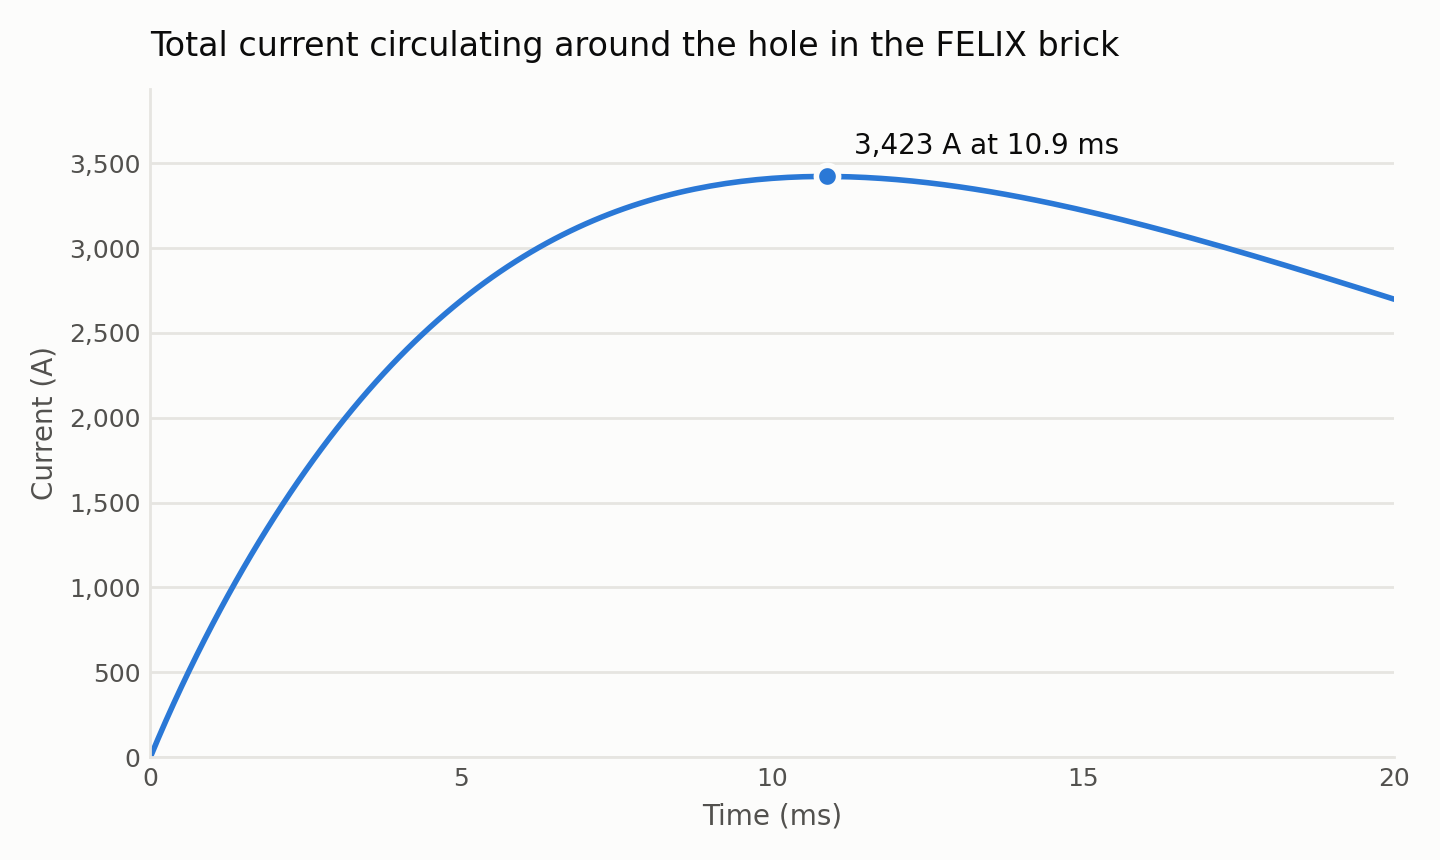
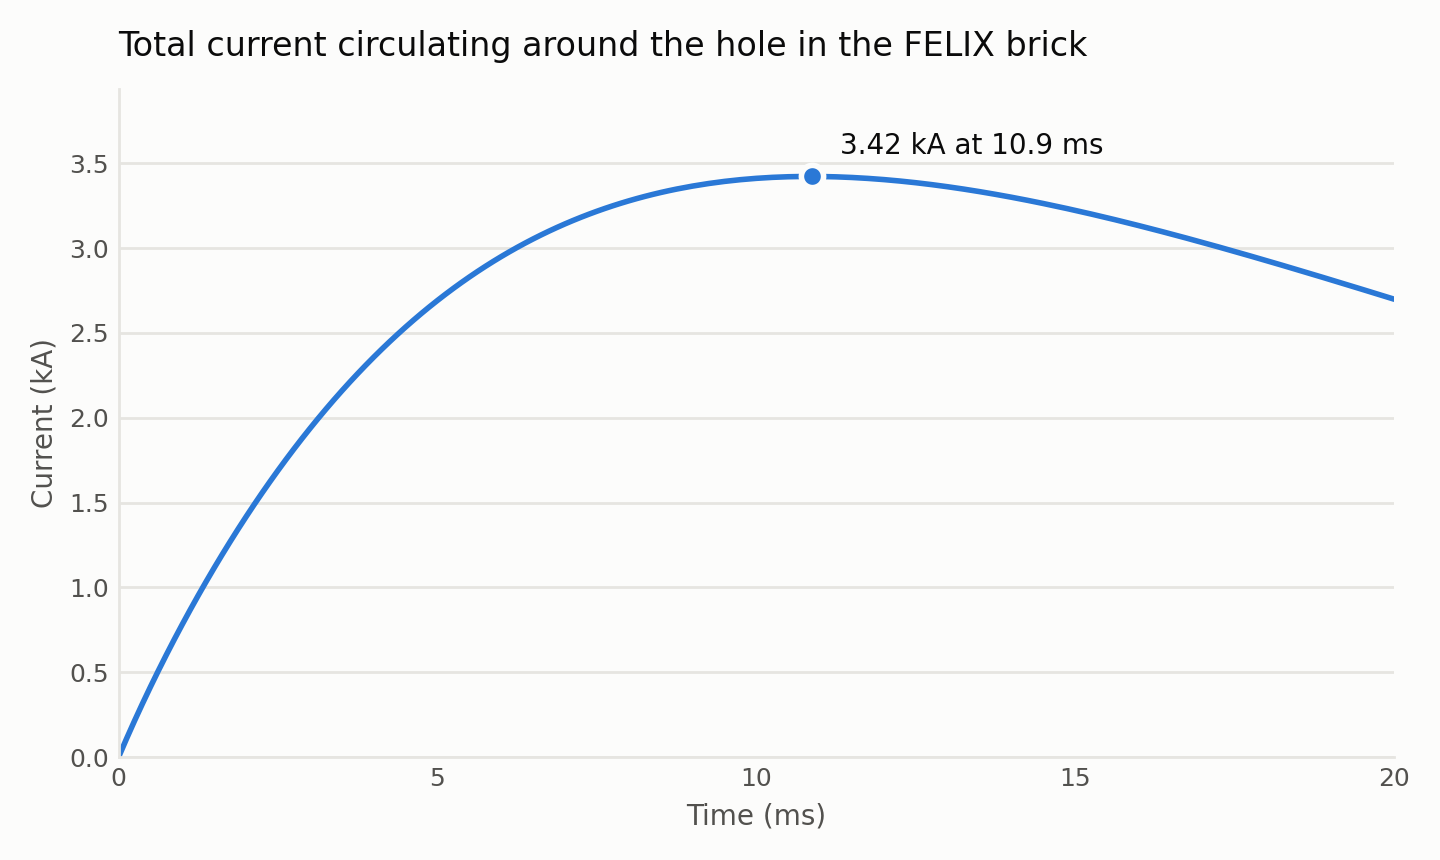
Make the Richardson extrapolation script user-runnable

diff --git a/test/tests/electromagnetics/team/problem_4/run_convergence_study.py b/test/tests/electromagnetics/team/problem_4/run_convergence_study.py
@@ -1,0 +1,244 @@
+#!/usr/bin/env python3
+"""Repeat the TEAM Problem 4 convergence study and Richardson-extrapolate.
+
+Runs team4_induced_field.i over a sequence of refinement levels, extracts the two
+figures of merit at each level, estimates the observed order of convergence, and
+extrapolates to the zero-discretisation-error limit. Prints the results both as a
+readable summary and as a markdown table for doc/content/problems/team_problem_4.md.
+
+Two studies are available:
+
+  timestep  halve dt from --dt0 for --levels levels, on the supplied mesh. This is
+            the one that matters: MFEMTransient offers only implicit Euler, so the
+            time discretisation is first-order and dominates the error.
+
+  mesh      uniformly refine the mesh, at a fixed --dt. Each level multiplies the
+            element count by eight, so level 2 is already a large job; the default
+            of two levels bounds the spatial error without trying to resolve an
+            order from it.
+
+Figures of merit, both quoted for the whole brick rather than the modelled octant:
+
+  peak current   the largest total current circulating around the hole. The octant
+                 is cut at z = 0, so the postprocessor value is doubled.
+  peak power     the largest ohmic dissipation, summed over all eight octants.
+
+Usage:
+    ./run_convergence_study.py --exe /path/to/moose_test-opt
+    ./run_convergence_study.py --study mesh --levels 2 --exe ...
+    ./run_convergence_study.py --reuse            # re-analyse without re-running
+"""
+
+import argparse
+import csv
+import math
+import os
+import shutil
+import subprocess
+import sys
+import time
+from pathlib import Path
+
+HERE = Path(__file__).resolve().parent
+INPUT = HERE / "team4_induced_field.i"
+
+# The octant is one eighth of the brick and is cut at z = 0 through the current path.
+OCTANT_TO_FULL_SECTION = 2.0
+OCTANT_TO_WHOLE_BRICK = 8.0
+
+
+def find_executable(explicit):
+    """Resolve the MOOSE application to run."""
+    for candidate in (explicit, os.environ.get("MOOSE_APP")):
+        if candidate:
+            path = Path(candidate).expanduser()
+            if path.is_file():
+                return path
+            found = shutil.which(str(candidate))
+            if found:
+                return Path(found)
+            sys.exit(f"error: executable not found: {candidate}")
+
+    moose_dir = os.environ.get("MOOSE_DIR")
+    if moose_dir:
+        path = Path(moose_dir) / "test" / "moose_test-opt"
+        if path.is_file():
+            return path
+
+    sys.exit(
+        "error: no MOOSE application given.\n"
+        "Pass --exe /path/to/app-opt, or set MOOSE_APP, or set MOOSE_DIR so that\n"
+        "$MOOSE_DIR/test/moose_test-opt exists. It must be built with MFEM support."
+    )
+
+
+def levels_for(args):
+    """Return [(tag, [extra cli args], description)] for the chosen study."""
+    if args.study == "timestep":
+        return [
+            (
+                f"dt_{args.dt0 / 2 ** n:g}",
+                [f"Executioner/dt={args.dt0 / 2 ** n:.12g}"],
+                f"dt = {args.dt0 / 2 ** n:g} s",
+            )
+            for n in range(args.levels)
+        ]
+
+    # Both apps must be refined together: MultiAppMFEMCopyTransfer copies degrees of
+    # freedom directly and needs the two meshes to agree exactly.
+    return [
+        (
+            f"refine_{n}",
+            [
+                f"Executioner/dt={args.dt:.12g}",
+                f"Mesh/uniform_refine={n}",
+                f"MultiApps/external_source_field/cli_args=Mesh/uniform_refine={n}",
+            ],
+            f"{n} uniform refinement(s)",
+        )
+        for n in range(args.levels)
+    ]
+
+
+def run_level(exe, tag, extra, workdir, mpi):
+    """Run one level and return (csv path, wall time in seconds)."""
+    base = workdir / tag
+    command = [str(exe), "-i", str(INPUT)]
+    if mpi > 1:
+        command = ["mpiexec", "-n", str(mpi)] + command
+    command += extra + [
+        "Outputs/ParaViewDataCollection/enable=false",
+        f"Outputs/ReportedPostprocessors/file_base={base}",
+    ]
+
+    start = time.monotonic()
+    result = subprocess.run(
+        command, cwd=HERE, stdout=subprocess.PIPE, stderr=subprocess.STDOUT, text=True
+    )
+    elapsed = time.monotonic() - start
+
+    if result.returncode != 0:
+        log = workdir / f"{tag}.log"
+        log.write_text(result.stdout)
+        sys.exit(f"error: {tag} failed (exit {result.returncode}); output in {log}")
+    return Path(f"{base}.csv"), elapsed
+
+
+def figures_of_merit(csv_path):
+    """Return (peak total current in A, peak whole-brick power in W, steps)."""
+    with open(csv_path, newline="") as handle:
+        rows = list(csv.DictReader(handle))
+
+    peak_current = 0.0
+    peak_power = 0.0
+    for row in rows:
+        inner = abs(float(row["InnerLimbCurrent"]))
+        outer = abs(float(row["OuterLimbCurrent"]))
+        peak_current = max(peak_current, 0.5 * (inner + outer) * OCTANT_TO_FULL_SECTION)
+        peak_power = max(peak_power, float(row["OhmicHeating"]) * OCTANT_TO_WHOLE_BRICK)
+    return peak_current, peak_power, len(rows) - 1
+
+
+def observed_orders(values):
+    """Order of convergence from each triple of successive halvings."""
+    orders = []
+    for i in range(len(values) - 2):
+        d1 = values[i + 1] - values[i]
+        d2 = values[i + 2] - values[i + 1]
+        orders.append(math.log2(d1 / d2) if d2 and d1 / d2 > 0 else float("nan"))
+    return orders
+
+
+def richardson(values, order, ratio=2.0):
+    """Extrapolate to zero discretisation error from the two finest levels."""
+    if len(values) < 2:
+        return float("nan")
+    return values[-1] + (values[-1] - values[-2]) / (ratio**order - 1.0)
+
+
+def main():
+    parser = argparse.ArgumentParser(
+        description=__doc__.splitlines()[0], formatter_class=argparse.RawDescriptionHelpFormatter
+    )
+    parser.add_argument("--study", choices=("timestep", "mesh"), default="timestep")
+    parser.add_argument("--levels", type=int, help="number of refinement levels")
+    parser.add_argument(
+        "--dt0",
+        type=float,
+        default=4e-3,
+        help="coarsest dt for --study timestep; halving it --levels times lands on the shipped dt",
+    )
+    parser.add_argument("--dt", type=float, default=1e-3, help="fixed dt for --study mesh")
+    parser.add_argument(
+        "--order",
+        type=float,
+        default=1.0,
+        help="order assumed for the extrapolation (default 1, the order of implicit Euler)",
+    )
+    parser.add_argument("--exe", help="MOOSE application built with MFEM support")
+    parser.add_argument("--mpi", type=int, default=1, help="MPI ranks per run")
+    parser.add_argument(
+        "--output-dir", type=Path, default=HERE / "ConvergenceStudy", help="where CSVs are written"
+    )
+    parser.add_argument(
+        "--reuse", action="store_true", help="reuse CSVs already present instead of re-running"
+    )
+    args = parser.parse_args()
+
+    if args.levels is None:
+        args.levels = 6 if args.study == "timestep" else 2
+    if args.levels < 2:
+        sys.exit("error: --levels must be at least 2 for an extrapolation")
+
+    exe = None if args.reuse else find_executable(args.exe)
+    args.output_dir.mkdir(parents=True, exist_ok=True)
+
+    results = []
+    for tag, extra, description in levels_for(args):
+        csv_path = args.output_dir / f"{tag}.csv"
+        if args.reuse:
+            if not csv_path.is_file():
+                sys.exit(f"error: --reuse given but {csv_path} does not exist")
+            elapsed = float("nan")
+        else:
+            print(f"running {description} ...", flush=True)
+            csv_path, elapsed = run_level(exe, tag, extra, args.output_dir, args.mpi)
+        current, power, steps = figures_of_merit(csv_path)
+        results.append((description, steps, current, power, elapsed))
+
+    currents = [r[2] for r in results]
+    powers = [r[3] for r in results]
+    current_limit = richardson(currents, args.order)
+    power_limit = richardson(powers, args.order)
+
+    print(f"\n{'level':<28} {'steps':>6} {'peak I (kA)':>12} {'peak P (W)':>11} {'err(I)':>8} "
+          f"{'runtime':>8}")
+    for description, steps, current, power, elapsed in results:
+        err = 100.0 * abs(current - current_limit) / current_limit
+        runtime = "--" if math.isnan(elapsed) else f"{elapsed:.0f} s"
+        print(f"{description:<28} {steps:>6} {current / 1e3:>12.3f} {power:>11.2f} "
+              f"{err:>7.1f}% {runtime:>8}")
+    print(f"{'Richardson extrapolation':<28} {'--':>6} {current_limit / 1e3:>12.3f} "
+          f"{power_limit:>11.2f} {'--':>8} {'--':>8}")
+
+    orders = observed_orders(currents)
+    if orders:
+        print("\nobserved order of convergence in peak current: "
+              + ", ".join(f"{p:.2f}" for p in orders))
+    print(f"extrapolation assumes order {args.order:g} (--order to change)")
+
+    label = "$\\Delta t$ (s)" if args.study == "timestep" else "Refinements"
+    print(f"\nmarkdown table:\n\n| {label} | Steps | Peak current (kA) | Peak power (W) "
+          "| Error in peak current | Runtime |")
+    print("| :- | -: | -: | -: | -: | -: |")
+    for description, steps, current, power, elapsed in results:
+        err = 100.0 * abs(current - current_limit) / current_limit
+        runtime = "--" if math.isnan(elapsed) else f"{elapsed:.0f} s"
+        value = description.replace("dt = ", "").replace(" s", "")
+        print(f"| {value} | {steps} | {current / 1e3:.3f} | {power:.2f} | {err:.1f}% | {runtime} |")
+    print(f"| Richardson extrapolation | -- | {current_limit / 1e3:.3f} | {power_limit:.2f} "
+          "| -- | -- |")
+
+
+if __name__ == "__main__":
+    main()

diff --git a/test/tests/electromagnetics/team/problem_4/plot_team4_current.py b/test/tests/electromagnetics/team/problem_4/plot_team4_current.py
@@ -109,7 +109,7 @@ def plot(times, totals, output):
         zorder=3,
     )
     ax.annotate(
-        f"{peak_a:,.0f} A at {peak_t:.1f} ms",
+        f"{peak_a / 1e3:.2f} kA at {peak_t:.1f} ms",
         xy=(peak_t, peak_a),
         xytext=(10, 8),
         textcoords="offset points",
@@ -118,7 +118,7 @@ def plot(times, totals, output):
     )
 
     ax.set_xlabel("Time (ms)", color=TEXT_SECONDARY, fontsize=10)
-    ax.set_ylabel("Current (A)", color=TEXT_SECONDARY, fontsize=10)
+    ax.set_ylabel("Current (kA)", color=TEXT_SECONDARY, fontsize=10)
     ax.set_title(
         "Total current circulating around the hole in the FELIX brick",
         color=TEXT_PRIMARY,
@@ -127,7 +127,7 @@ def plot(times, totals, output):
         pad=12,
     )
 
-    ax.yaxis.set_major_formatter(FuncFormatter(lambda v, _: f"{v:,.0f}"))
+    ax.yaxis.set_major_formatter(FuncFormatter(lambda v, _: f"{v / 1e3:,.1f}"))
     ax.xaxis.set_major_locator(MultipleLocator(5))
     ax.xaxis.set_major_formatter(FuncFormatter(lambda v, _: f"{v:,.0f}"))
     ax.tick_params(colors=TEXT_SECONDARY, labelsize=9, length=0)

diff --git a/doc/content/problems/team_problem_4.md b/doc/content/problems/team_problem_4.md
@@ -5,7 +5,7 @@ series. A hollow aluminium brick sits in a uniform axial magnetic field which is
 exponential decay. The decaying field drives eddy currents that circulate around the hole, and the benchmark
 quantities are the current crossing the brick wall and the ohmic power those currents dissipate.
 
-The hole is what gives the problem its teeth. It makes the conducting region multiply connected, so the
+The hole makes the problem non-trivial by making the conducting region multiply connected, so the
 formulation has to support a net current circulating around a loop that cannot be shrunk to a point.
 
 This example uses the MFEM backend of MOOSE, so it requires an application built with MFEM support. It is
@@ -106,6 +106,7 @@ plane.
 | `team4_external_source_field.i` | Sub-app: the applied background field. Launched automatically. |
 | `team4_symmetrized.e` | Octant mesh, 26760 tetrahedra. |
 | `plot_team4_current.py` | Draws the current history below from the postprocessor CSV. |
+| `run_convergence_study.py` | Repeats the convergence study and extrapolates to zero error. |
 | `tests` | Test harness specification. |
 | `gold/` | Reference postprocessor output. |
 
@@ -122,7 +123,7 @@ The main app launches the sub-app itself, so only one input needs to be given:
 or, from the repository root, through the test harness:
 
 ```bash
-./run_tests --re team4
+./run_tests --re TEAM_Problem_4
 ```
 
 Results are written to `OutputData/`. `TEAM4CSV.csv` holds the postprocessor time histories and `TEAM4/` holds a
@@ -173,38 +174,56 @@ disagreement between the two limb currents over the run, which is the consistenc
 
 ## Convergence id=convergence
 
-`MFEMTransient` currently offers only implicit Euler — `bdf2` and `crank-nicolson` are rejected — so the time
-discretisation is first-order and the timestep dominates the error. Refining it gives textbook first-order
-behaviour:
-
-| $\Delta t$ (s) | Steps | Peak current (A) | Peak power (W) | Error in peak current | Runtime |
-| :- | -: | -: | -: | -: | -: |
-| $5 \times 10^{-3}$ | 4 | 1245.7 | 7.911 | 27.8% | 6 s |
-| $2 \times 10^{-3}$ | 10 | 1513.9 | 11.254 | 12.3% | 6 s |
-| $1 \times 10^{-3}$ | 20 | 1615.8 | 12.710 | 6.4% | 12 s |
-| $5 \times 10^{-4}$ | 40 | 1669.3 | 13.520 | 3.3% | 24 s |
-| $2.5 \times 10^{-4}$ | 80 | 1697.0 | 13.947 | 1.7% | 46 s |
-| $1.25 \times 10^{-4}$ | 160 | 1711.3 | 14.170 | 0.8% | 92 s |
-| Richardson extrapolation | | 1725.6 | 14.392 | | |
-
-Successive differences fall by factors of 1.90, 1.93 and 1.94 as the timestep is halved, giving observed orders
-of 0.93, 0.95 and 0.96, converging on the expected 1. Errors above are measured against the Richardson
-extrapolation to $\Delta t \rightarrow 0$ taken from the two finest steps. The shipped
-$\Delta t = 1.25 \times 10^{-4}$ s is the coarsest that keeps the peak current within 1% of that limit; it takes
-around 90 seconds. Adding `Executioner/dt=0.001` on the command line finishes in about 12 seconds at the cost of
-roughly 6% in the peak.
-
-Spatial error is much smaller and does not drive the choice. One uniform refinement of the mesh, at fixed
-$\Delta t = 10^{-3}$ s, moves the peak current by 0.39% (1615.8 A to 1622.1 A) at eight times the element count,
-so the supplied mesh contributes a few tenths of a percent at most. To check this:
+Time discretisation is first-order and the timestep dominates the error. `run_convergence_study.py` repeats the
+study below and reports the extrapolated limit:
 
 ```bash
-<moose app> -i team4_induced_field.i Mesh/uniform_refine=1 \
-  MultiApps/external_source_field/cli_args=Mesh/uniform_refine=1
+cd test/tests/electromagnetics/team/problem_4
+./run_convergence_study.py --exe /path/to/app-opt        # or set MOOSE_APP / MOOSE_DIR
 ```
 
-Both meshes have to be refined together, because `MultiAppMFEMCopyTransfer` copies degrees of freedom directly
-and requires the two apps to agree exactly.
+It halves the timestep from `--dt0` and prints the table straight into this page's format. Both figures of merit
+are quoted for the whole brick, as in the [Results](#results) table's second column: the current is doubled to
+span the full cross-section, and the dissipation is summed over all eight octants.
+
+| $\Delta t$ (s) | Steps | Peak current (kA) | Peak power (W) | Error in peak current | Runtime |
+| :- | -: | -: | -: | -: | -: |
+| $4 \times 10^{-3}$ | 5 | 2.685 | 70.57 | 22.2% | 4 s |
+| $2 \times 10^{-3}$ | 10 | 3.028 | 90.03 | 12.3% | 7 s |
+| $1 \times 10^{-3}$ | 20 | 3.232 | 101.68 | 6.4% | 13 s |
+| $5 \times 10^{-4}$ | 40 | 3.339 | 108.16 | 3.3% | 25 s |
+| $2.5 \times 10^{-4}$ | 80 | 3.394 | 111.58 | 1.7% | 47 s |
+| $1.25 \times 10^{-4}$ | 160 | 3.423 | 113.36 | 0.8% | 93 s |
+| Richardson extrapolation | -- | 3.451 | 115.14 | -- | -- |
+
+The observed order of convergence in the peak current, taken from each triple of successive halvings, is 0.75,
+0.93, 0.95 and 0.96 — converging on the expected 1. Errors above are measured against the Richardson
+extrapolation to $\Delta t \rightarrow 0$ from the two finest steps, which assumes that first order; pass
+`--order` to assume another. The shipped $\Delta t = 1.25 \times 10^{-4}$ s is the coarsest that keeps the peak
+current within 1% of the limit, at around 90 seconds. Adding `Executioner/dt=0.001` on the command line finishes
+in about 13 seconds at the cost of roughly 6% in the peak.
+
+Spatial error is smaller and does not drive the choice of timestep. The same script runs the mesh study, at a
+fixed $\Delta t$:
+
+```bash
+./run_convergence_study.py --study mesh --levels 2 --exe /path/to/app-opt
+```
+
+| Refinements | Elements | Peak current (kA) | Peak power (W) | Runtime |
+| :- | -: | -: | -: | -: |
+| 0 | 26760 | 3.232 | 101.68 | 13 s |
+| 1 | 214080 | 3.244 | 102.36 | 109 s |
+| Richardson extrapolation | -- | 3.257 | 103.05 | -- |
+
+One uniform refinement moves the peak current by 0.37% for eight times the element count, and a first-order
+extrapolation from those two levels puts the supplied mesh about 0.8% short of the spatial limit — the same
+ballpark as the timestep error at the shipped $\Delta t$, and in the same direction. Two levels fix a magnitude
+but not an order; a third would be needed to establish that, and at 64 times the base element count it is a much
+larger job than anything else here.
+
+The script refines both apps together. That matters: `MultiAppMFEMCopyTransfer` copies degrees of freedom
+directly, so a run that refined only the main app would fail rather than quietly give a wrong answer.
 
 ## References id=references
 
